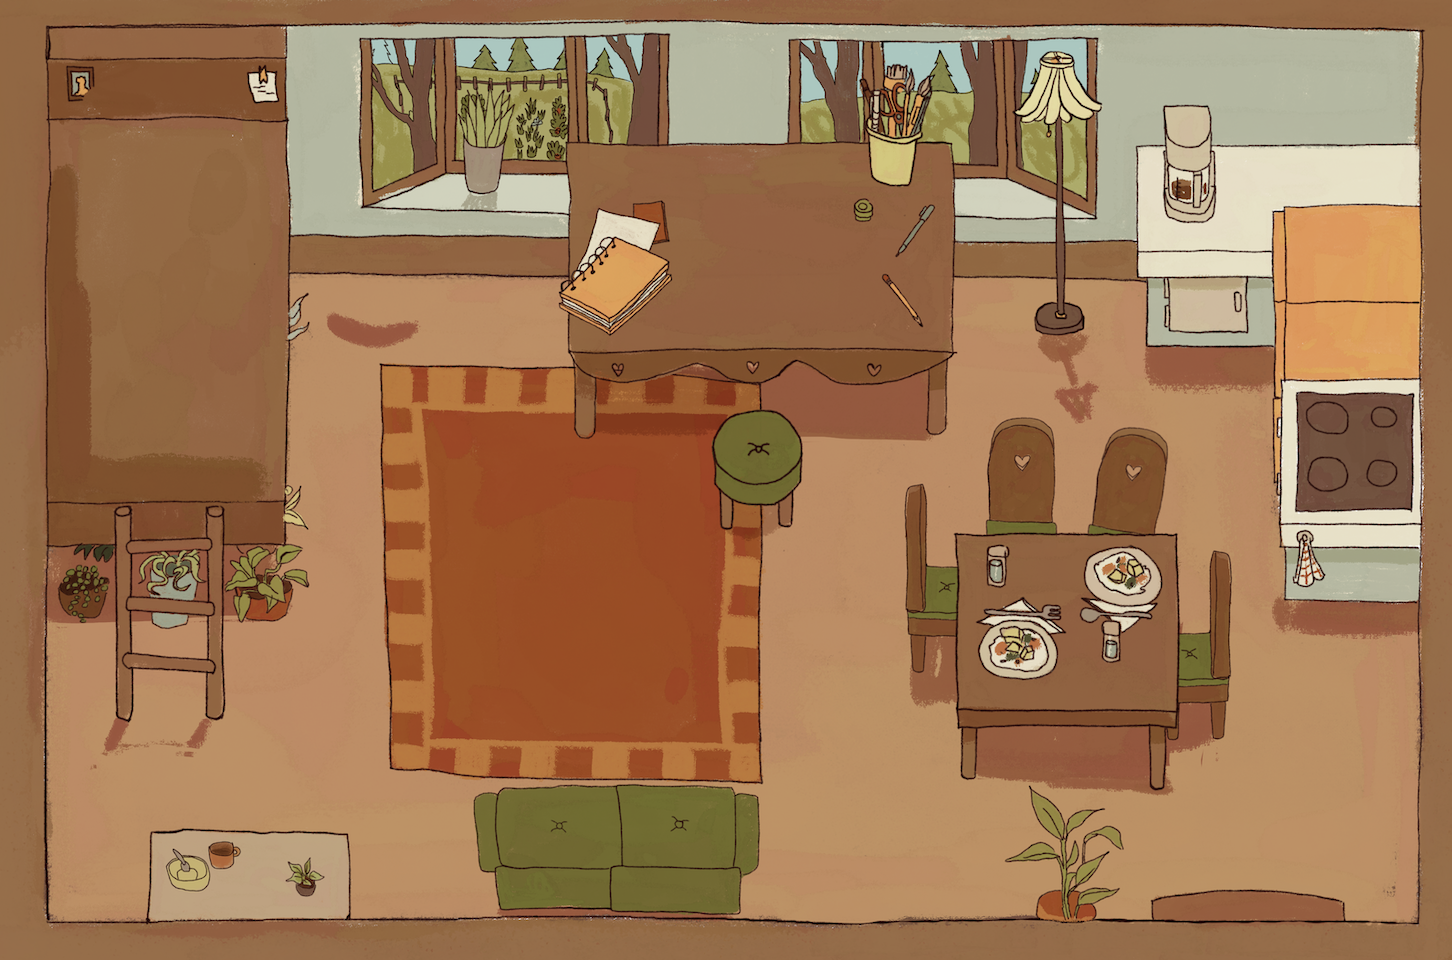
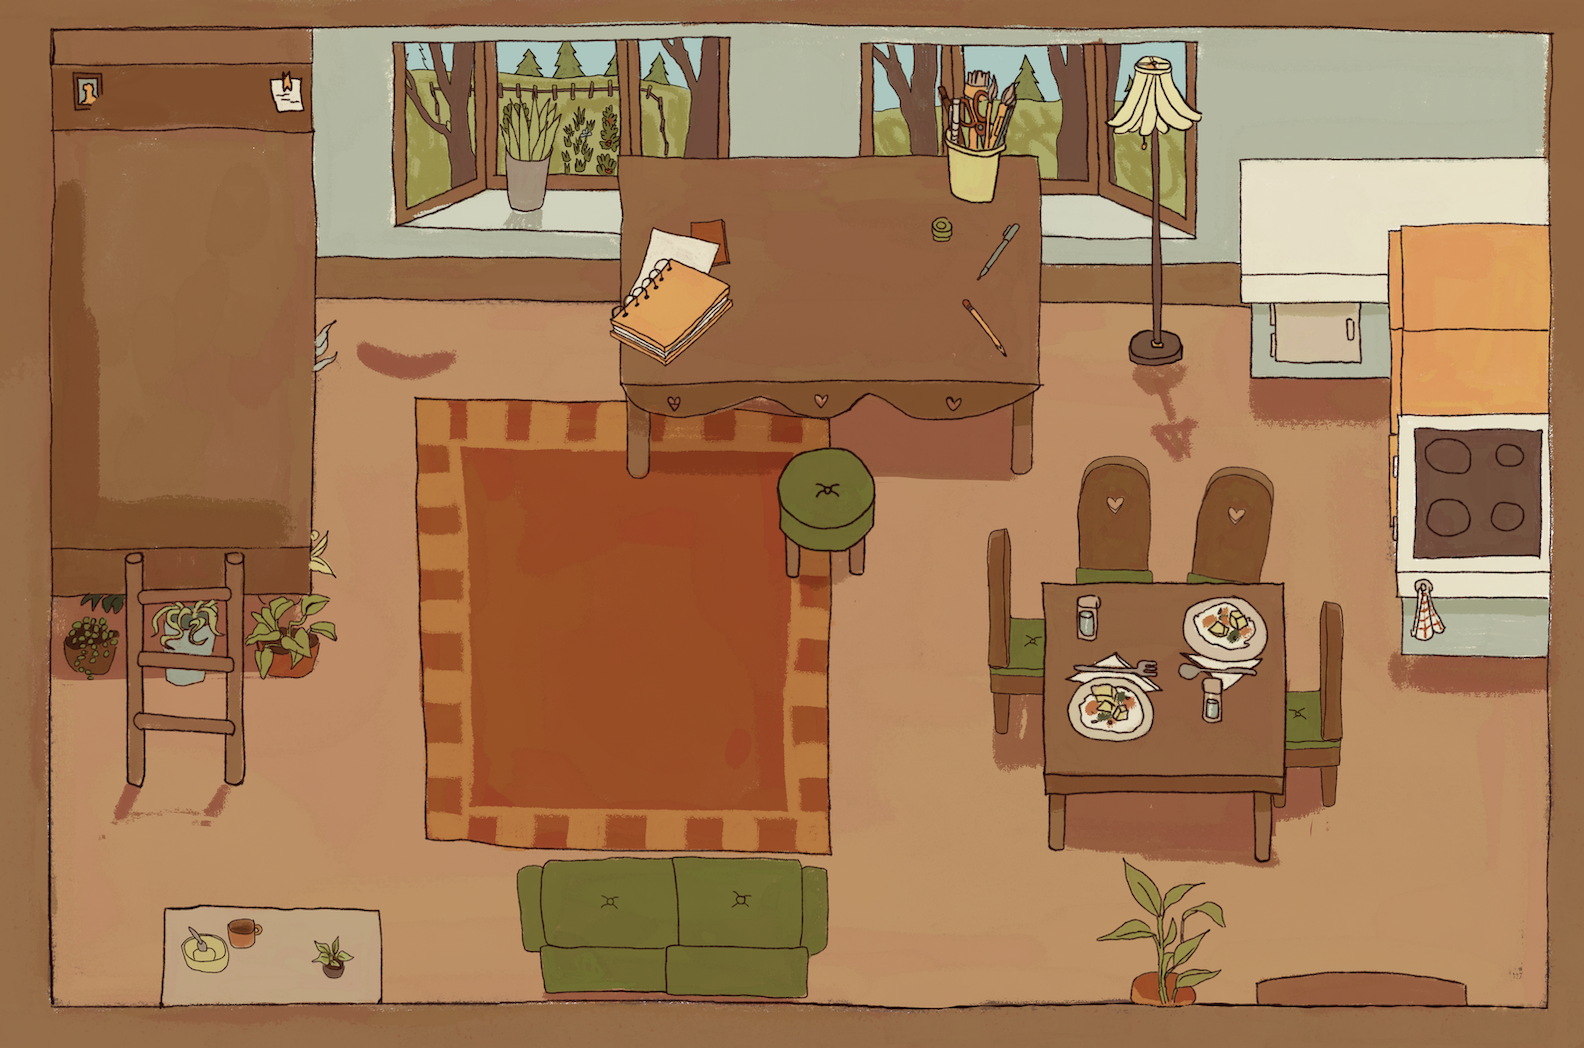
updating the room background picture

diff --git a/sketch.js b/sketch.js
@@ -2,7 +2,7 @@
 // NOTE: no onClick inside items anymore
 
 let items = {
-  "room_background": { "coordinates": [0, 0], "scale": 1, fullscreen: true },
+  "room_background": { "coordinates": [0, 0], "scale": 1.7, fullscreen: true },
 
   "bed": { "coordinates": [47, 30], "scale": 0.45 },
   "pattern": { "coordinates": [680, 29], "scale": 0.5 },
@@ -218,6 +218,52 @@ function drawGrid(cellSize = 50) {
   }
 }
 
+// Grid drawn in a popup's own native image pixel space (the same space
+// iconInstances coordinates are defined in), so labels can be read
+// straight off the screen and pasted into iconInstances.
+function drawPopupGrid(popup, cellSize = 100) {
+  const img = popup.img;
+  if (!img || !img.complete || img.naturalWidth === 0) return;
+
+  const [px, py] = popup.coordinates;
+  const scale = popup.scale;
+  const nativeW = img.naturalWidth;
+  const nativeH = img.naturalHeight;
+
+  ctx.strokeStyle = "rgba(255,0,0,0.6)";
+  ctx.lineWidth = 1;
+
+  for (let nx = 0; nx <= nativeW; nx += cellSize) {
+    const x = px + nx * scale;
+    if (x < 0 || x > canvas.width) continue;
+    ctx.beginPath();
+    ctx.moveTo(x, Math.max(0, py));
+    ctx.lineTo(x, Math.min(canvas.height, py + nativeH * scale));
+    ctx.stroke();
+  }
+
+  for (let ny = 0; ny <= nativeH; ny += cellSize) {
+    const y = py + ny * scale;
+    if (y < 0 || y > canvas.height) continue;
+    ctx.beginPath();
+    ctx.moveTo(Math.max(0, px), y);
+    ctx.lineTo(Math.min(canvas.width, px + nativeW * scale), y);
+    ctx.stroke();
+  }
+
+  ctx.fillStyle = "yellow";
+  ctx.font = "11px monospace";
+
+  for (let nx = 0; nx <= nativeW; nx += cellSize * 2) {
+    for (let ny = 0; ny <= nativeH; ny += cellSize * 2) {
+      const x = px + nx * scale;
+      const y = py + ny * scale;
+      if (x < 0 || x > canvas.width || y < 0 || y > canvas.height) continue;
+      ctx.fillText(`${nx},${ny}`, x + 2, y + 12);
+    }
+  }
+}
+
 // -------------------- ERROR BOX --------------------
 
 function drawErrors() {
@@ -324,7 +370,7 @@ function draw() {
       safeDrawImage(item.img, x, y, item.scale, key);
     }
 
-    if (showGrid) drawGrid(50);
+    if (showGrid && !topPopup()) drawGrid(50);
     drawErrors();
   } catch (err) {
     pushError(`FATAL DRAW LOOP: ${err.message}`);
@@ -349,6 +395,8 @@ function draw() {
 
       safeDrawImage(inst.img, x, y, inst.scale * popup.scale, inst.id);
     }
+
+    if (showGrid) drawPopupGrid(popup, 100);
   }
 
 